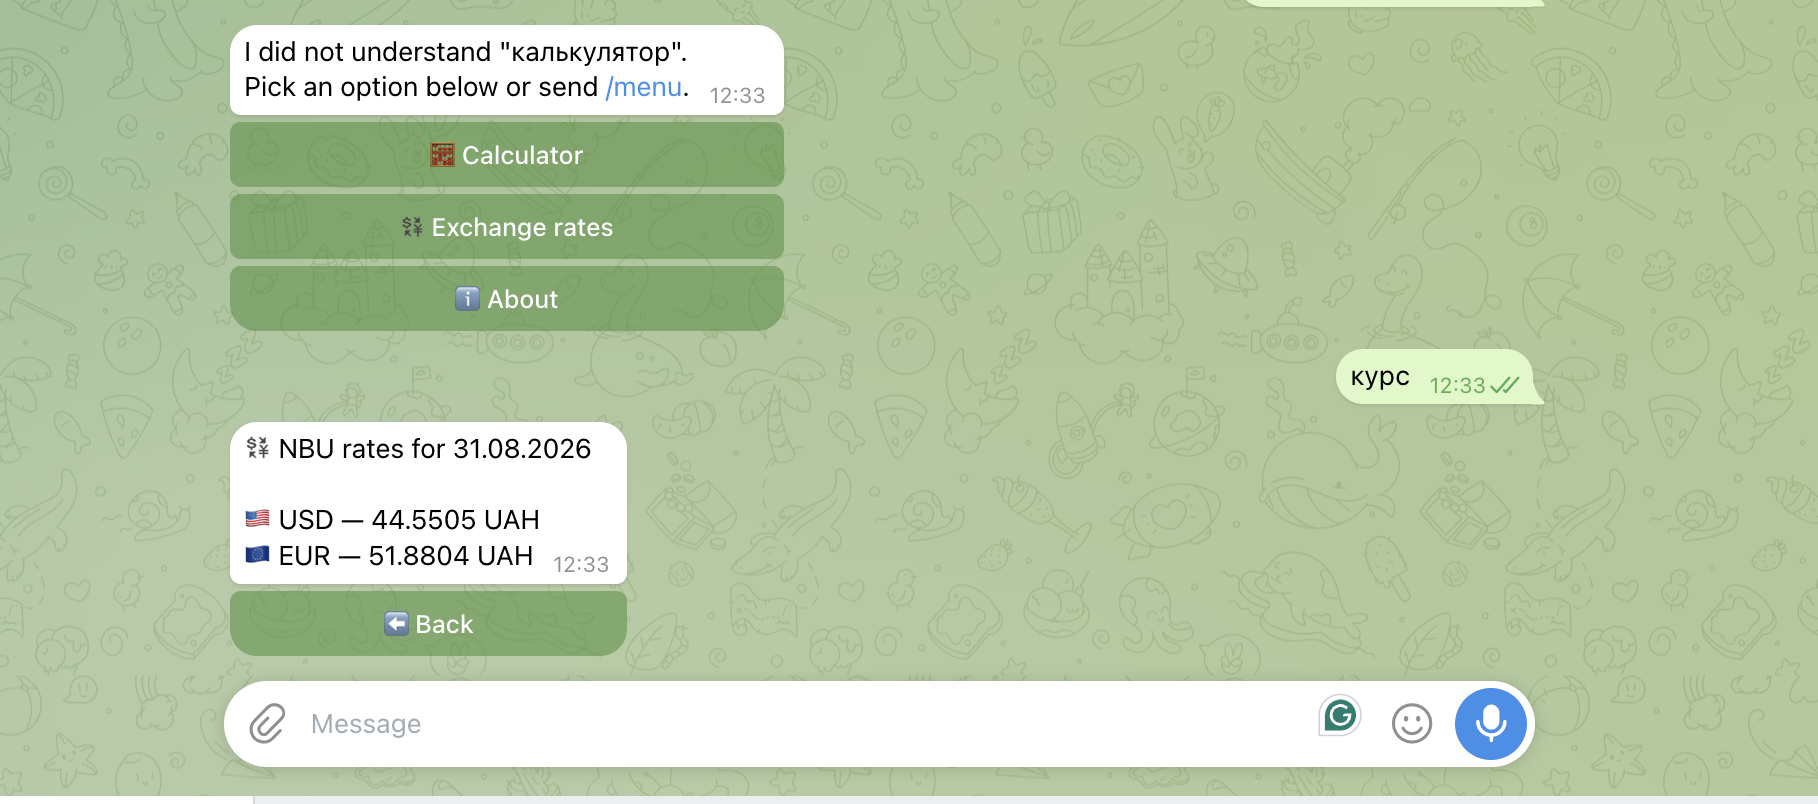
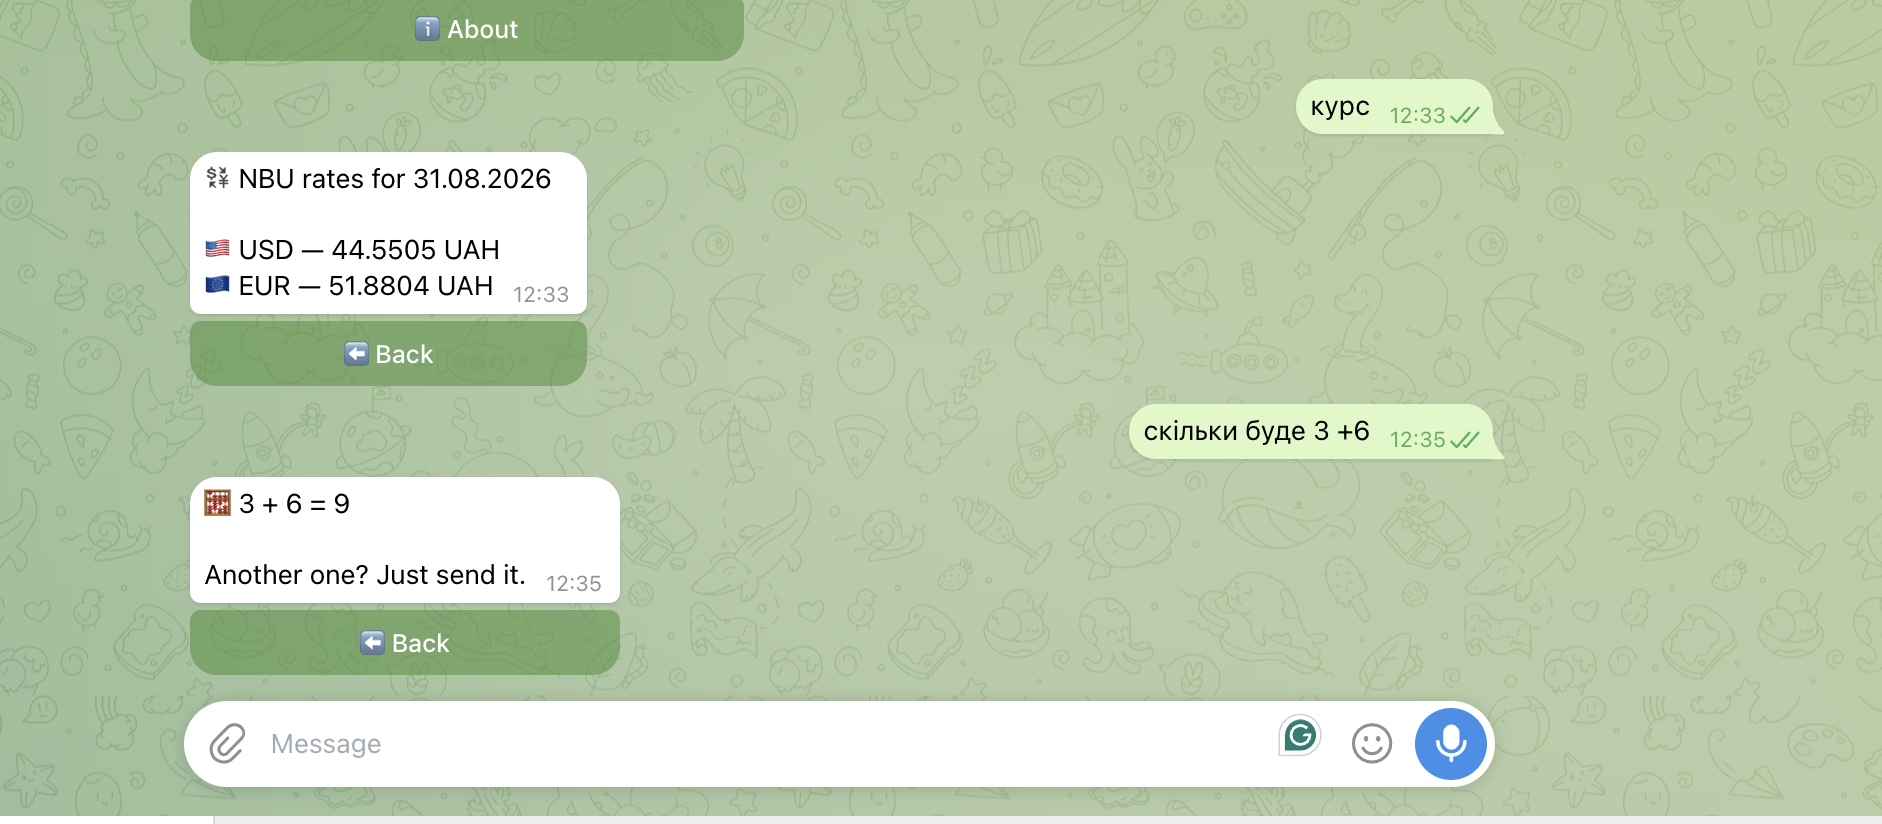
[Docs] update docs

diff --git a/README.md b/README.md
@@ -71,7 +71,8 @@ Telegram Receiver
       ├── rates ─0─────┼─ [log] → [http request: NBU] → rates format ──┐
       │         └─1────┼──────────────────────────────────────────────►│
       │                │           [catch: NBU] ───────────────────────►│
-      └── fallback   ──┤                                                │
+      └── intent ────┬─┤   free text → calc / rates / menu / fallback   │
+                     └─┤                                                │
                        └──────────────► [link call: log] → Telegram Sender
 ```
 
@@ -121,6 +122,8 @@ as data inside `i18n.uk`.
   `/data/bot.log`.
 - All constants and user-facing strings centralised in one `config` node,
   with `uk` / `en` string dictionaries.
+- Free-text understanding on the fallback path (bonus): "скільки буде 5 плюс 7",
+  "який курс долара", "калькулятор".
 
 ### Why single-line calculator input
 
@@ -131,6 +134,47 @@ arriving in the middle of input — a lot of edge cases for no gain here, becaus
 every validation requirement is covered by the single-line format anyway. The
 format is stated to the user on entering the branch and repeated with every
 error message.
+
+## Bonus blocks
+
+### Free text instead of buttons
+
+The `intent` node sits **on the fallback path only**, so exact commands and
+button payloads are still resolved by the router and free-text matching can
+never hijack an unambiguous input. Recognised text is rewritten into the
+canonical form the existing branches already accept:
+
+```
+"скільки буде 5 плюс 7"  ->  msg.payload.content = "5 + 7"  ->  calc branch
+"який курс долара"       ->  rates branch
+"калькулятор"            ->  calc branch, chat mode set to `calc`
+```
+
+Neither the calculator nor the rates branch knows that free-text recognition
+exists. Replacing the regex layer with a real NLU engine would touch one node
+and nothing else.
+
+Patterns live in `cfg.intent` as **strings**, not `RegExp` objects, so the
+config stays serialisable; the node compiles them with `new RegExp(..., 'i')`.
+The log line shows which rule fired: `[calc:words]`, `[calc:symbols]`,
+`[rates]`, `[calc:branch]`, `[menu]` or `[none]`.
+
+### Postman collection
+
+`postman/nbu-api.postman_collection.json` — three requests with tests:
+
+1. the exact call the bot makes, asserting the array shape, USD/EUR presence
+   and a positive rate;
+2. a single-currency request (`?valcode=usd`), with a note on why the bot does
+   not use it — one request for the whole list is cheaper than one per currency;
+3. an unknown currency code, which the NBU API answers with **HTTP 200 and an
+   empty array** rather than an error status. This is the direct justification
+   for the `Array.isArray` and `missing_currency` checks in the flow: a 200 does
+   not mean the payload is usable.
+
+### Network diagnostics
+
+See [`network.md`](network.md).
 
 ## Known issues / not done
 
@@ -146,7 +190,6 @@ error message.
   transitive dependency tree (RedBot 2.0.4 pulls in Apollo Server 2, Sequelize 5,
   express 2.x). Acceptable for a test assignment, not for production.
 - Long polling only; no webhook mode.
-- Bonus blocks (Postman collection, free-text NLP, network diagnostics) not done.
 
 <!-- TODO: anything else you got stuck on, and what you tried -->
 
@@ -175,5 +218,8 @@ number" reply for expressions with more than one operation.
 | Logs: invalid input | ✅ |
 | Logs: API failure | ✅ |
 | README in English | ✅ |
+| Bonus: Postman collection | ✅ |
+| Bonus: free text instead of buttons | ✅ |
+| Bonus: network diagnostics | 🟡 |
 
 Evidence for every logging row is in [`logs.md`](logs.md).

diff --git a/logs.md b/logs.md
@@ -165,3 +165,29 @@ This case was found by testing the refactored flow: the parser handles one
 operation, and the earlier version reported `1/2` as "not a number", which was
 misleading. Operands are now validated by shape, so "not a number" and "more
 than one operation" are two different steps with two different replies.
+
+---
+
+## Bonus — free-text recognition in the log
+
+The `intent` node prefixes the log line with the rule that fired, so a free-text
+request is traceable end to end without a separate log format:
+
+```json
+{"ts":"2026-08-29T09:33:23.177Z","chatId":8631190257,"step":"msg:received","detail":"курс"}
+{"ts":"2026-08-29T09:33:23.180Z","chatId":8631190257,"step":"nbu:request_sent","detail":"[rates] https://bank.gov.ua/NBUStatService/v1/statdirectory/exchange?json timeout=5000ms"}
+{"ts":"2026-08-29T09:33:23.265Z","chatId":8631190257,"step":"nbu:success","detail":"USD=44.5505 EUR=51.8804"}
+```
+
+Unrecognised free text is marked `[none]` and falls through to the normal
+fallback answer:
+
+```json
+{"ts":"2026-08-29T09:33:18.730Z","chatId":8631190257,"step":"msg:received","detail":"калькулятор"}
+{"ts":"2026-08-29T09:33:18.733Z","chatId":8631190257,"step":"fallback:unknown_input","detail":"[none] калькулятор"}
+```
+
+That second fragment is from before the branch-name patterns were added — the
+user typed the name of a menu section and got the fallback. It is kept here on
+purpose: it is what made the gap visible, and `[none]` is exactly the marker to
+watch when deciding which patterns are missing.
